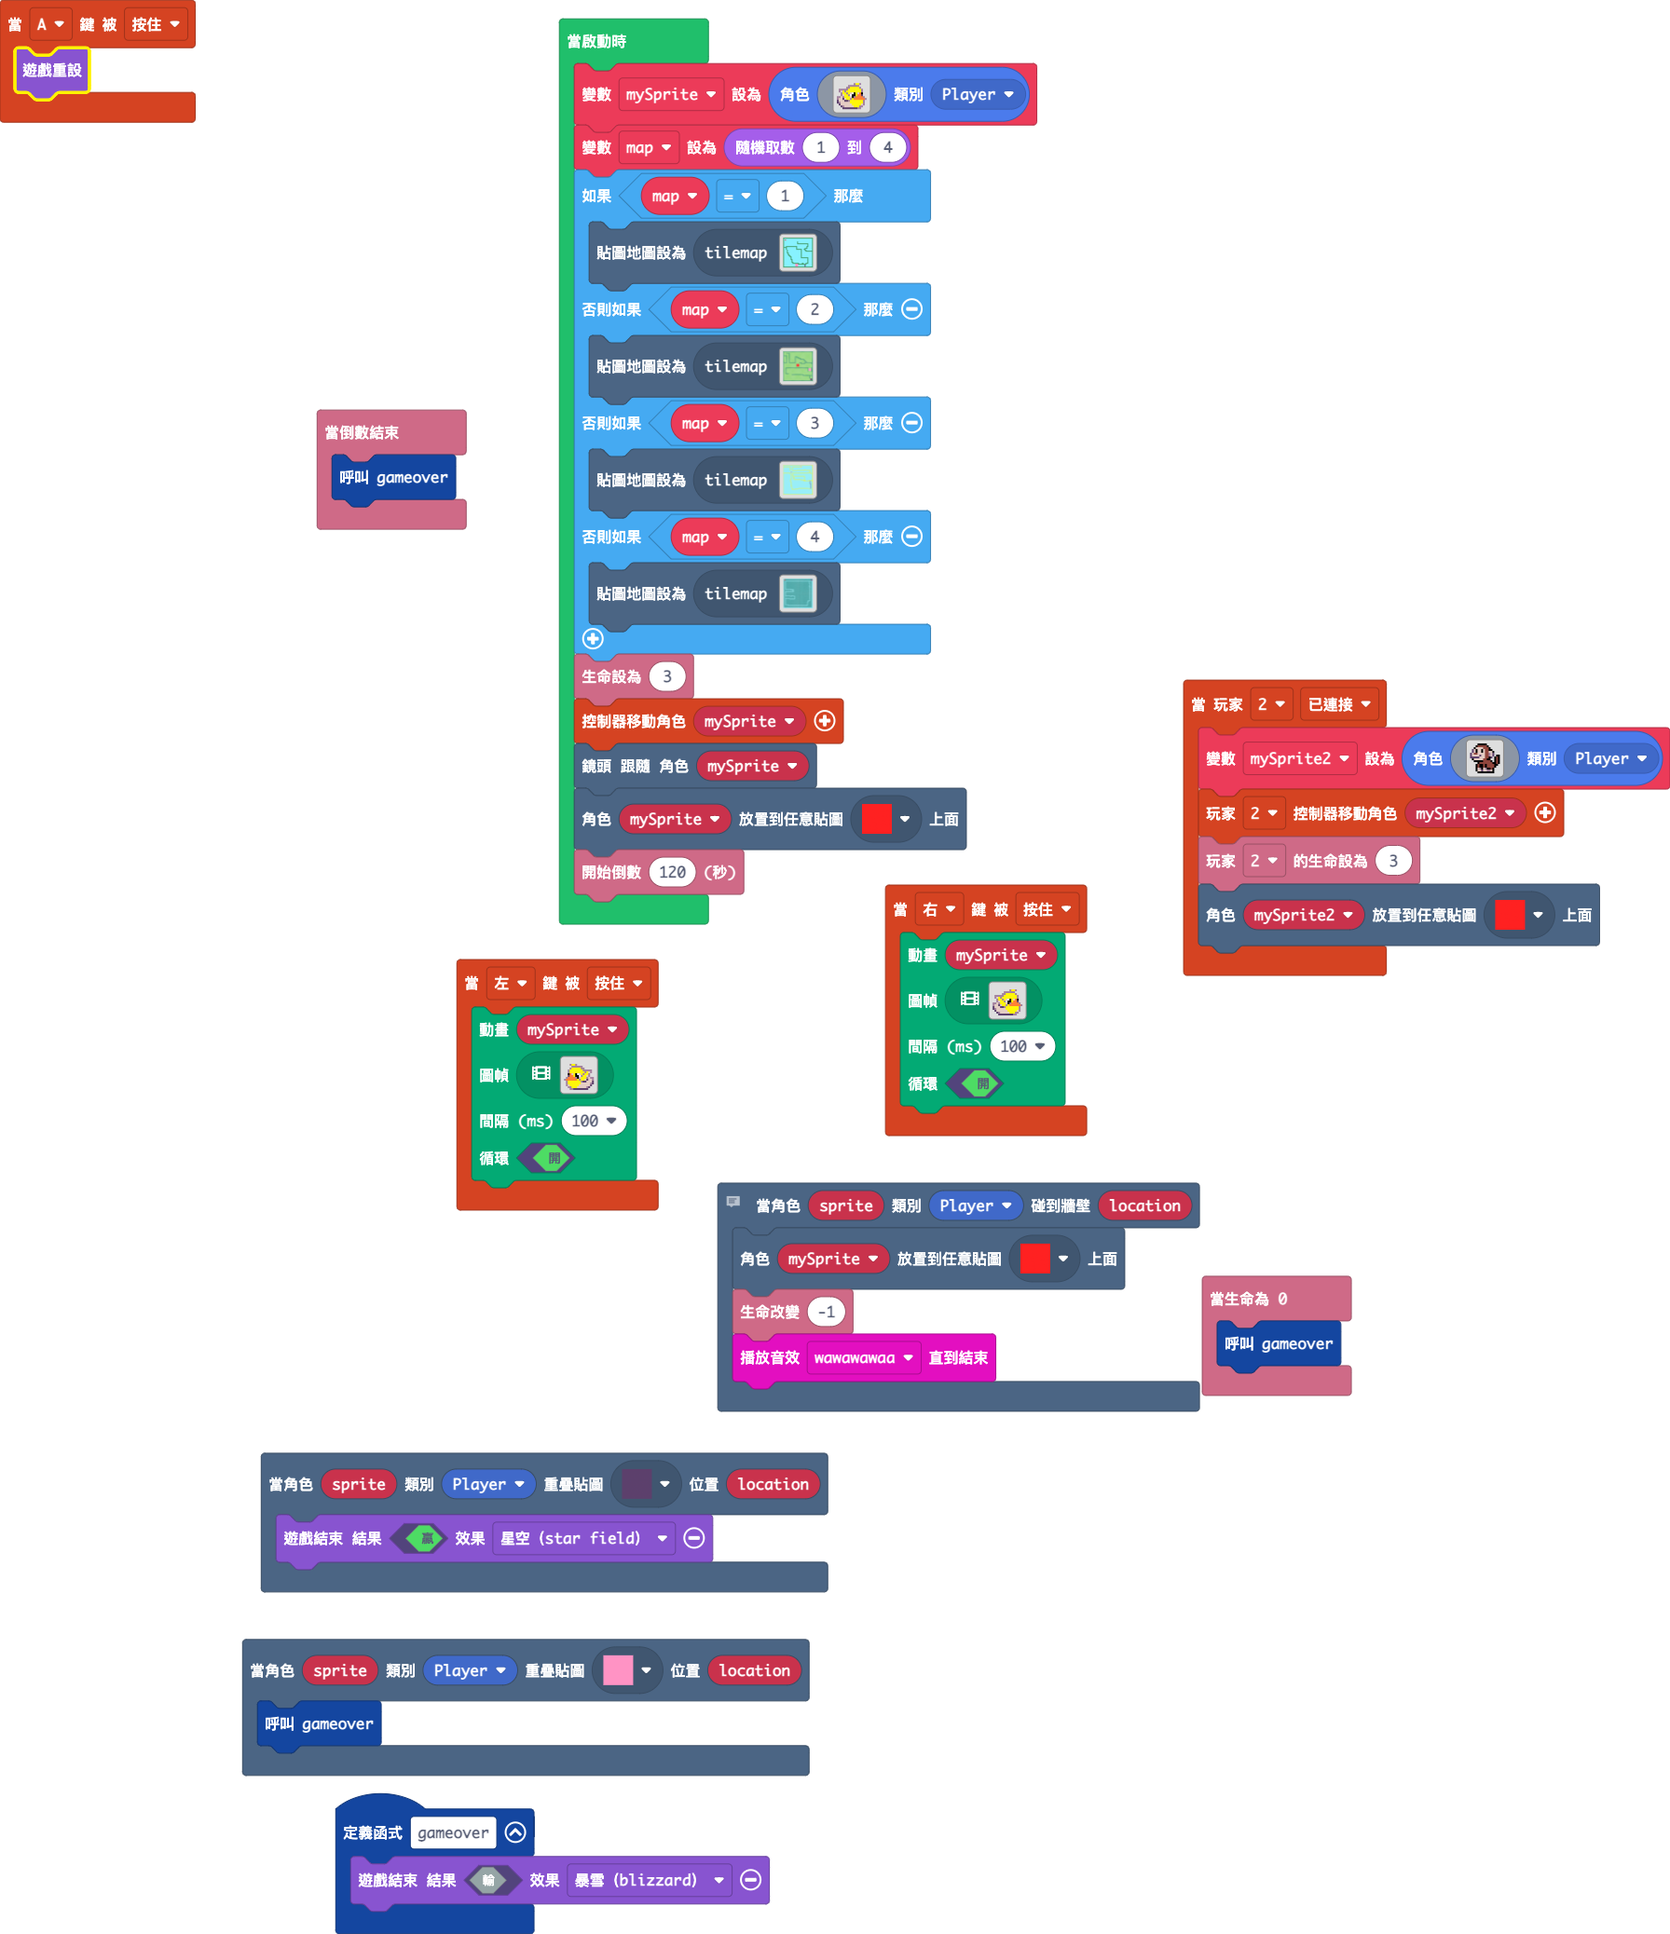
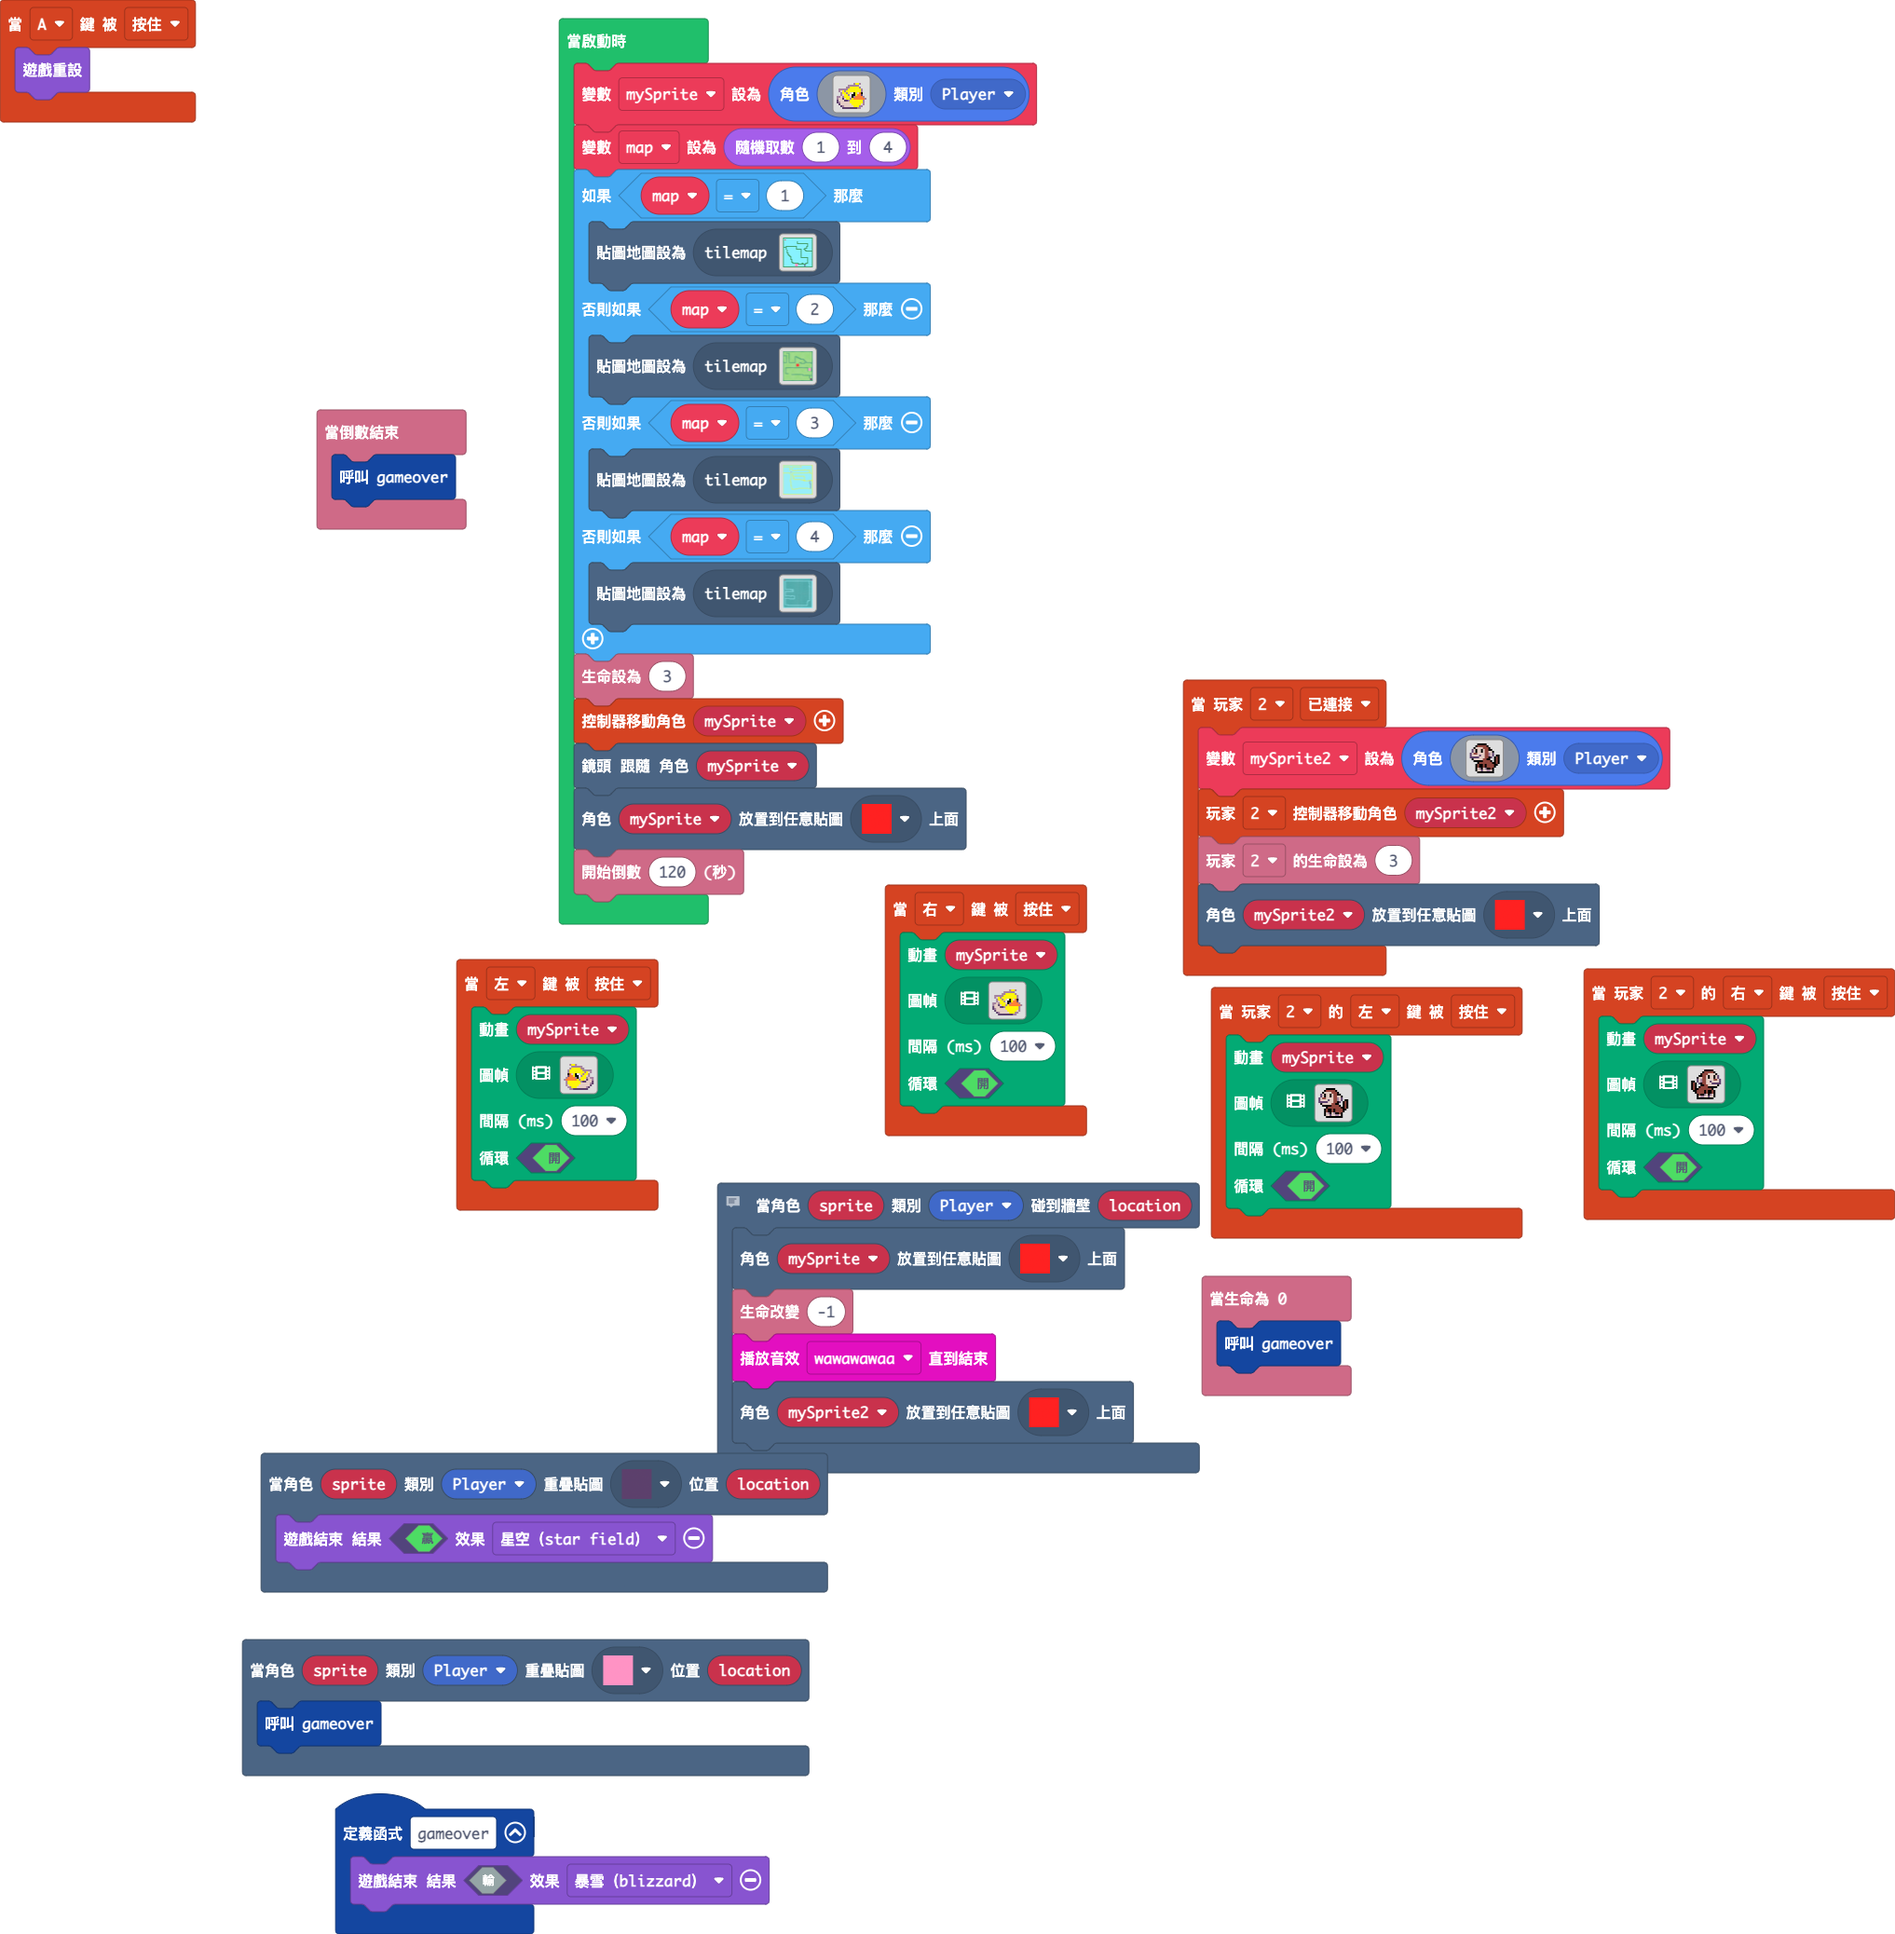
更新 main.blocks, main.ts

Changed region(s): [[0.125, 0.0, 1.0, 1.0], [0.0, 0.0, 0.125, 0.0617]]

diff --git a/main.ts b/main.ts
@@ -3,6 +3,7 @@ scene.onHitWall(SpriteKind.Player, function (sprite, location) {
     tiles.placeOnRandomTile(mySprite, assets.tile`我的貼圖`)
     info.changeLifeBy(-1)
     music.wawawawaa.playUntilDone()
+    tiles.placeOnRandomTile(mySprite2, assets.tile`我的貼圖`)
 })
 scene.onOverlapTile(SpriteKind.Player, assets.tile`我的貼圖2`, function (sprite, location) {
     game.over(true, effects.starField)
@@ -149,6 +150,99 @@ controller.left.onEvent(ControllerButtonEvent.Pressed, function () {
 info.onCountdownEnd(function () {
     gameover()
 })
+controller.player2.onButtonEvent(ControllerButton.Right, ControllerButtonEvent.Pressed, function () {
+    animation.runImageAnimation(
+    mySprite,
+    [img`
+        . . . . . . . f f f f f . . . . 
+        . . . . . . f e e e e e f . . . 
+        . . . . . f e e e d d d d f . . 
+        . . . . f f e e d f d d f d c . 
+        . . . f d d e e d f d d f d c . 
+        . . . c d b e e d d d d e e d c 
+        f f . c d b e e d d c d d d d c 
+        f e f . c f e e d d d c c c c c 
+        f e f . . f f e e d d d d d f . 
+        f e f . f e e e e f f f f f . . 
+        f e f f e e e e e e e f . . . . 
+        . f f e e e e f e f f e f . . . 
+        . . f e e e e f e f f e f . . . 
+        . . . f e f f b d f b d f . . . 
+        . . . f d b b d d c d d f . . . 
+        . . . f f f f f f f f f . . . . 
+        `,img`
+        . . . . . . . f f f f f . . . . 
+        . . . . . . f e e e e e f . . . 
+        . . . . . f e e e d d d d f . . 
+        . . . . . f e e d f d d f d c . 
+        . . . . f f e e d f d d f d c . 
+        . . . f d d e e d d d d e e d c 
+        . . . c d b e e d d c d d d d c 
+        f f . c d b e e e d d c c c c c 
+        f e f . c f f e e e d d d d f . 
+        f e f . f e e e e f f f f f f . 
+        f e f f e e e e e e e f f f f . 
+        . f f e e e e f e f d d f d d f 
+        . . f e e e e f e f b d f b d f 
+        . . f e f f f f f f f f f f f f 
+        . . f d d c f . . . . . . . . . 
+        . . f f f f . . . . . . . . . . 
+        `,img`
+        . . . . . . . f f f f f . . . . 
+        . . . . . . f e e e e e f . . . 
+        . . . . f f e e e d d d d f . . 
+        . . . f d d e e d d d d d d c . 
+        . . . c d b e e d f d d f d c . 
+        f f . c d b e e d f d d f d d c 
+        f e f . c f e e d d d d e e d c 
+        f e f . . f e e e d c d d d d c 
+        f e f . . f f e e e d c c c f . 
+        f e f . f e e e e f f f f f . . 
+        . f f f e e e e e e e f . . . . 
+        . . f e e e e f e e f e f f . . 
+        . . f e e e f f f e e f f e f . 
+        . f b f f f f f f c d d b d d f 
+        . f d d c f . . f d d d c d d f 
+        . . f f f . . . f f f f f f f . 
+        `,img`
+        . . . . . . . f f f f f . . . . 
+        . . . . f f f e e e e e f . . . 
+        . . . f d d e e e e d d d f . . 
+        . . . c d b e e e d d d d d c . 
+        . . . c d b e e d d d d d d c . 
+        . f f . c f e e d f d d f d d c 
+        f e f . . f e e d f d d f d d c 
+        f e f . . f e e d d d d e e d c 
+        f e f . . f f e e d c d d d f . 
+        f e f . f e e e e e d f f f . . 
+        . f f f e e e e e e e f . . . . 
+        . . f f b e e e e e f f . . . . 
+        . . f f d d c e e f f e f . . . 
+        . . . . f f f c d d b d d f . . 
+        . . . . . f f d d d c d d f . . 
+        . . . . . . f f f f f f f . . . 
+        `,img`
+        . . . . . . . f f f f f . . . . 
+        . . . . . . f e e e e e f . . . 
+        . . . . . f e e e d d d d f . . 
+        . . . . f f e e d f d d f d c . 
+        . . . f d d e e d f d d f d c . 
+        . . . c d b e e d d d d e e d c 
+        . . . c d b e e d d c d d d d c 
+        . . . . c f e e e d d c c c c c 
+        . . . . . f f e e e d d d d f . 
+        . . . . f e e e e f f f f f . . 
+        f f . f e e e e e e f f . . . . 
+        f e . f e e f e e f e e f . . . 
+        f e . f e e e f e e f e e f . . 
+        f e f f e f b b f b d f d b f . 
+        f f f f e b d d f d d f d d f . 
+        . f f f f f f f f f f f f f . . 
+        `],
+    100,
+    true
+    )
+})
 controller.right.onEvent(ControllerButtonEvent.Pressed, function () {
     animation.runImageAnimation(
     mySprite,
@@ -261,6 +355,99 @@ controller.right.onEvent(ControllerButtonEvent.Pressed, function () {
 })
 info.onLifeZero(function () {
     gameover()
+})
+controller.player2.onButtonEvent(ControllerButton.Left, ControllerButtonEvent.Pressed, function () {
+    animation.runImageAnimation(
+    mySprite,
+    [img`
+        . . . . f f f f f . . . . . . . 
+        . . . f e e e e e f . . . . . . 
+        . . f d d d d e e e f . . . . . 
+        . c d f d d f d e e f f . . . . 
+        . c d f d d f d e e d d f . . . 
+        c d e e d d d d e e b d c . . . 
+        c d d d d c d d e e b d c . f f 
+        c c c c c d d d e e f c . f e f 
+        . f d d d d d e e f f . . f e f 
+        . . f f f f f e e e e f . f e f 
+        . . . . f e e e e e e e f f e f 
+        . . . f e f f e f e e e e f f . 
+        . . . f e f f e f e e e e f . . 
+        . . . f d b f d b f f e f . . . 
+        . . . f d d c d d b b d f . . . 
+        . . . . f f f f f f f f f . . . 
+        `,img`
+        . . . . f f f f f . . . . . . . 
+        . . . f e e e e e f . . . . . . 
+        . . f d d d d e e e f . . . . . 
+        . c d f d d f d e e f . . . . . 
+        . c d f d d f d e e f f . . . . 
+        c d e e d d d d e e d d f . . . 
+        c d d d d c d d e e b d c . . . 
+        c c c c c d d e e e b d c . f f 
+        . f d d d d e e e f f c . f e f 
+        . f f f f f f e e e e f . f e f 
+        . f f f f e e e e e e e f f e f 
+        f d d f d d f e f e e e e f f . 
+        f d b f d b f e f e e e e f . . 
+        f f f f f f f f f f f f e f . . 
+        . . . . . . . . . f c d d f . . 
+        . . . . . . . . . . f f f f . . 
+        `,img`
+        . . . . f f f f f . . . . . . . 
+        . . . f e e e e e f . . . . . . 
+        . . f d d d d e e e f f . . . . 
+        . c d d d d d d e e d d f . . . 
+        . c d f d d f d e e b d c . . . 
+        c d d f d d f d e e b d c . f f 
+        c d e e d d d d e e f c . f e f 
+        c d d d d c d e e e f . . f e f 
+        . f c c c d e e e f f . . f e f 
+        . . f f f f f e e e e f . f e f 
+        . . . . f e e e e e e e f f f . 
+        . . f f e f e e f e e e e f . . 
+        . f e f f e e f f f e e e f . . 
+        f d d b d d c f f f f f f b f . 
+        f d d c d d d f . . f c d d f . 
+        . f f f f f f f . . . f f f . . 
+        `,img`
+        . . . . f f f f f . . . . . . . 
+        . . . f e e e e e f f f . . . . 
+        . . f d d d e e e e d d f . . . 
+        . c d d d d d e e e b d c . . . 
+        . c d d d d d d e e b d c . . . 
+        c d d f d d f d e e f c . f f . 
+        c d d f d d f d e e f . . f e f 
+        c d e e d d d d e e f . . f e f 
+        . f d d d c d e e f f . . f e f 
+        . . f f f d e e e e e f . f e f 
+        . . . . f e e e e e e e f f f . 
+        . . . . f f e e e e e b f f . . 
+        . . . f e f f e e c d d f f . . 
+        . . f d d b d d c f f f . . . . 
+        . . f d d c d d d f f . . . . . 
+        . . . f f f f f f f . . . . . . 
+        `,img`
+        . . . . f f f f f . . . . . . . 
+        . . . f e e e e e f . . . . . . 
+        . . f d d d d e e e f . . . . . 
+        . c d f d d f d e e f f . . . . 
+        . c d f d d f d e e d d f . . . 
+        c d e e d d d d e e b d c . . . 
+        c d d d d c d d e e b d c . . . 
+        c c c c c d d e e e f c . . . . 
+        . f d d d d e e e f f . . . . . 
+        . . f f f f f e e e e f . . . . 
+        . . . . f f e e e e e e f . f f 
+        . . . f e e f e e f e e f . e f 
+        . . f e e f e e f e e e f . e f 
+        . f b d f d b f b b f e f f e f 
+        . f d d f d d f d d b e f f f f 
+        . . f f f f f f f f f f f f f . 
+        `],
+    100,
+    true
+    )
 })
 function gameover () {
     game.over(false, effects.blizzard)
